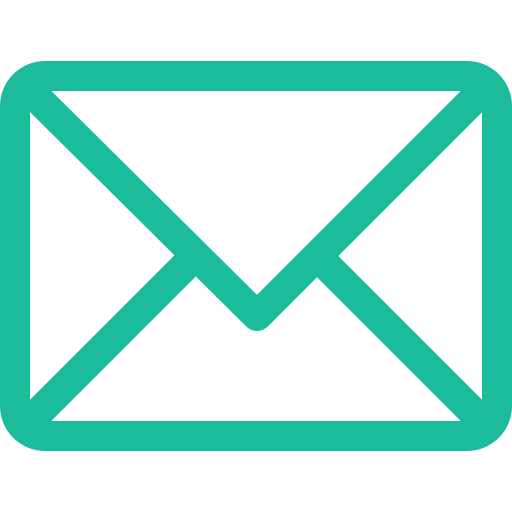
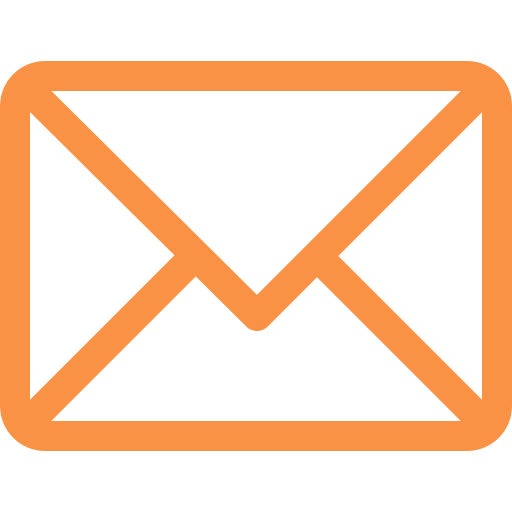
Contact Page Color Change

diff --git a/edu.greenvibes.lk/css/cont.css b/edu.greenvibes.lk/css/cont.css
@@ -36,7 +36,7 @@ textarea {
 }
 
 .contact-form {
-  background-color: #1abc9c;
+  background-color: #f99245;
   position: relative;
 }
 
@@ -47,7 +47,7 @@ textarea {
   position: absolute;
   width: 26px;
   height: 26px;
-  background-color: #1abc9c;
+  background-color: #f99245;
   transform: rotate(45deg);
   top: 50px;
   left: -13px;
@@ -119,7 +119,7 @@ textarea.input {
   background-color: #fff;
   border: 2px solid #fafafa;
   font-size: 0.95rem;
-  color: #1abc9c;
+  color:  #f99245;
   line-height: 1;
   border-radius: 25px;
   outline: none;
@@ -153,7 +153,7 @@ textarea.input {
   opacity: 0;
   transition: 0.3s;
   height: 5px;
-  background-color: #1abc9c;
+  background-color: #f99245;
   top: 50%;
   transform: translateY(-50%);
 }
@@ -185,7 +185,7 @@ textarea.input {
 }
 
 .contact-info .title {
-  color: #1abc9c;
+  color:  #f99245;
 }
 
 .text {
@@ -223,7 +223,7 @@ textarea.input {
   width: 35px;
   height: 35px;
   border-radius: 5px;
-  background: linear-gradient(45deg, #1abc9c, #149279);
+  background: linear-gradient(45deg,  #f99245,  #f99245);
   color: #fff;
   text-align: center;
   line-height: 35px;
@@ -240,7 +240,7 @@ textarea.input {
   position: absolute;
   width: 110px;
   height: 100px;
-  border: 22px solid #1abc9c;
+  border: 22px solid  #f99245;
   border-radius: 50%;
   bottom: -77px;
   right: 50px;
